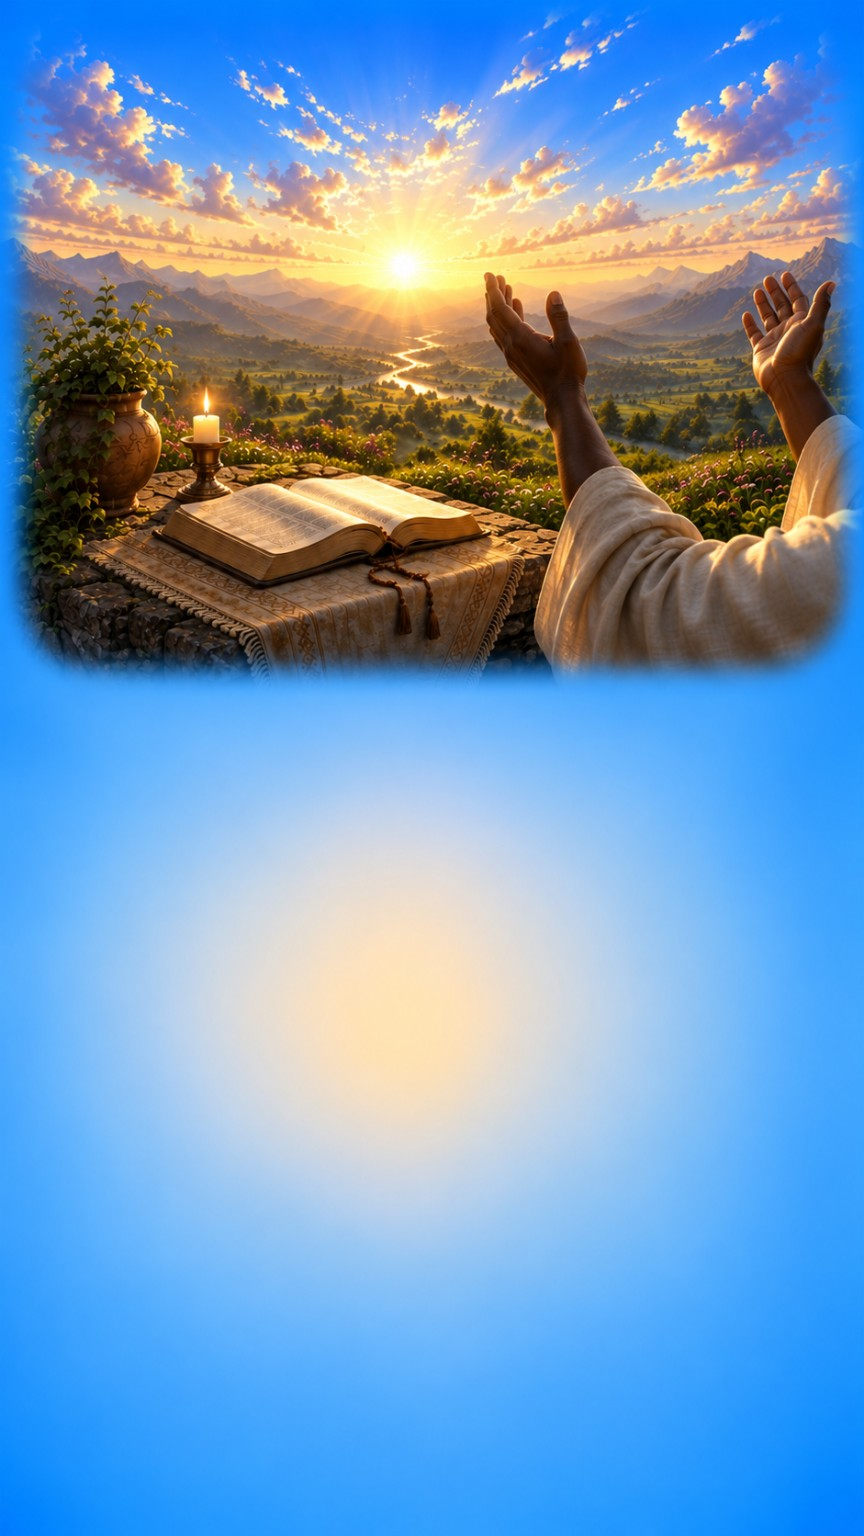
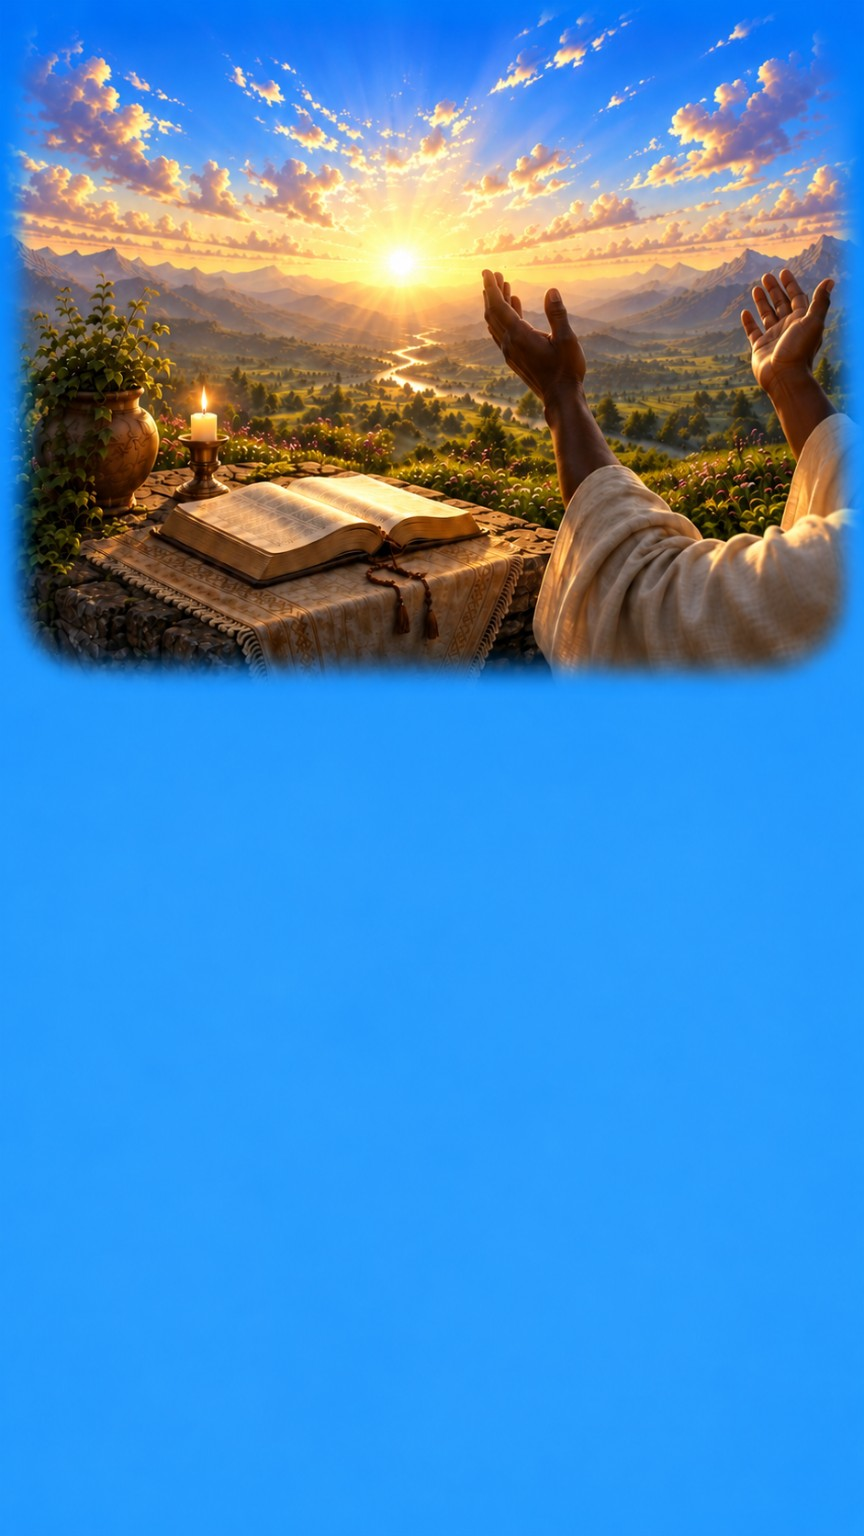
Add files via upload

diff --git a/app.js b/app.js
@@ -1570,8 +1570,8 @@ function openMoreMenu(ev){
   }
 }
 
-const APP_VERSION_LABEL = "v3.1.320";
-const APP_VERSION_ZIP = "Oraciones_V3.1.320_TARJETAS_MILAGROS_ACTUALIZADAS.zip";
+const APP_VERSION_LABEL = "v3.1.321";
+const APP_VERSION_ZIP = "Oraciones_V3.1.321_DISENO_2_ORACION_ACTUALIZADO.zip";
 const APP_BASE_ZIP = "oraciones_v2_v89_2_tarjeta_ajuste_cabecera.zip";
 function closeAppCredits(){
   const el=document.getElementById("appCreditsOverlay");
@@ -3242,7 +3242,7 @@ async function exportAllZip(){
 
 
 /* ===== V3.1.258 · Descargar copia autosuficiente de la aplicación ===== */
-const APP_VERSION_V31249 = "3.1.320";
+const APP_VERSION_V31249 = "3.1.321";
 const FUTURE_HOME_ICONS_V31249 = Object.freeze({
   dailyVerse:"icon-versiculo-dia-v3250.png",
   dictionary:"icon-diccionario-v3250.png"
@@ -3506,7 +3506,7 @@ async function buildCompleteBackupPayloadV31245(){
     type: COMPLETE_BACKUP_TYPE_V31245,
     version: 31306,
     exportedAt: new Date().toISOString(),
-    appVersion: "3.1.320",
+    appVersion: "3.1.321",
     storageEngine: "indexeddb-v1",
     description: "Copia integral y autosuficiente: datos sin duplicar, ajustes y entradas completas del diccionario bíblico.",
     state: removeObsoleteCharactersDataV31272(JSON.parse(JSON.stringify(state||{}))),
@@ -3752,7 +3752,7 @@ function showUpdateNoticeV31297(worker){
   });
   window.addEventListener('load',async()=>{
     try{
-      const reg=await navigator.serviceWorker.register('sw.js?v=3.1.320',{updateViaCache:'none'});
+      const reg=await navigator.serviceWorker.register('sw.js?v=3.1.321',{updateViaCache:'none'});
       const detectWaiting=()=>{if(reg.waiting&&navigator.serviceWorker.controller)showUpdateNoticeV31297(reg.waiting);};
       detectWaiting();
       reg.addEventListener('updatefound',()=>{
@@ -3929,7 +3929,7 @@ function renderCardCategoriesV31282(){
   grid.classList.add('card-category-grid-v31282');
   grid.innerHTML=CARD_CATEGORY_CATALOG_V31282.map(category=>{
     const first=category.designs[0];
-    return `<button class="card-category-option-v31282" type="button" onclick="openCardCategoryV31282('${category.id}')"><strong class="card-category-title-v31285">${cardCategoryEscapeV31282(category.label)}</strong><img src="${first.src}?v=3.1.320" alt="" aria-hidden="true"><span class="card-category-footer-v31285"><small>${category.designs.length} diseños</small><b aria-hidden="true">›</b></span></button>`;
+    return `<button class="card-category-option-v31282" type="button" onclick="openCardCategoryV31282('${category.id}')"><strong class="card-category-title-v31285">${cardCategoryEscapeV31282(category.label)}</strong><img src="${first.src}?v=3.1.321" alt="" aria-hidden="true"><span class="card-category-footer-v31285"><small>${category.designs.length} diseños</small><b aria-hidden="true">›</b></span></button>`;
   }).join('');
 }
 function openCardCategoryV31282(categoryId){
@@ -3946,7 +3946,7 @@ function openCardCategoryV31282(categoryId){
   if(!grid)return;
   grid.classList.remove('card-category-grid-v31282');
   grid.classList.add('card-design-grid-v31282');
-  grid.innerHTML=category.designs.map((design,index)=>`<button class="card-design-option-v31282" type="button" onclick="chooseCardStyleV2217('${design.style}')"><img src="${design.src}?v=3.1.320" alt="Diseño ${index+1} de ${cardCategoryEscapeV31282(category.label)}"><span><strong>Diseño ${index+1}</strong><small>${cardCategoryEscapeV31282(category.label)}</small></span></button>`).join('');
+  grid.innerHTML=category.designs.map((design,index)=>`<button class="card-design-option-v31282" type="button" onclick="chooseCardStyleV2217('${design.style}')"><img src="${design.src}?v=3.1.321" alt="Diseño ${index+1} de ${cardCategoryEscapeV31282(category.label)}"><span><strong>Diseño ${index+1}</strong><small>${cardCategoryEscapeV31282(category.label)}</small></span></button>`).join('');
 }
 function backToCardCategoriesV31282(){renderCardCategoriesV31282();}
 

diff --git a/sw.js b/sw.js
@@ -1,13 +1,13 @@
-const CACHE_NAME="oraciones-v3-1-320-tarjetas-milagros-actualizadas";
+const CACHE_NAME="oraciones-v3-1-321-diseno-2-oracion-actualizado";
 const CORE=["./","./index.html","./manifest.json?v=v3-1-263-sin-calendario","./jszip.min.js?v=v3-1-63-share-history-persist","./jszip.min.js","./styles.css?v=3.1.300","./themes.css?v=v3-1-63-share-history-persist","./welcome.js?v=v3-1-63-share-history-persist","./config.js?v=v3-1-63-share-history-persist","./utils.js?v=v3-1-63-share-history-persist","./recent.js?v=v3-1-63-share-history-persist","./versiculos.js?v=v3-1-64-share-history-persistence-fix","./theme-mode.js?v=v3-1-63-share-history-persist","./app.js?v=3.1.300","./patches.js?v=v3-1-63-share-history-persist","./routines.js?v=v2-215-busqueda-tarjeta-fix-directo","./routines.js","./moments.js?v=v3-1-123-catalogacion-mejorada","./moments.js","./counters-v3183.js?v=v3-1-263-sin-calendario","./counters-v3183.js","./styles.css","./themes.css","./welcome.js","./config.js","./utils.js","./recent.js","./versiculos.js","./theme-mode.js","./app.js","./patches.js","./cross-ethiopian-mask.png","./icon-notas-detallado-v2210.png","./icon-versiculo-dia-v3250.png","./icon-dia-noche-v3255.png","./icon-192.png","./icon-512.png","./bg-morning.webp","./bg-day.webp","./bg-sunset.webp","./bg-night.webp","./card-sabiduria-v2240.jpg?v=v3-1-258-lora-solo-textos-offline","./card-sabiduria-v2240.jpg","./routine-morning-bible-v2216.webp","./routine-night-bible-v2216.webp","./shared-card-new-jerusalem-v2217.png","./card-salvacion-v2219.jpg?v=v3-1-258-lora-solo-textos-offline","./card-oracion-v2219.jpg?v=v3-1-258-lora-solo-textos-offline","./card-espiritu-santo-v2219.jpg?v=v3-1-258-lora-solo-textos-offline","./card-misericordia-v2219.jpg?v=v3-1-258-lora-solo-textos-offline","./card-alabanza-v2219.jpg?v=v3-1-258-lora-solo-textos-offline","./card-fortaleza-v2219.jpg?v=v3-1-258-lora-solo-textos-offline","./card-amor-v2219.jpg?v=v3-1-258-lora-solo-textos-offline","./card-esperanza-v2219.jpg?v=v3-1-258-lora-solo-textos-offline","./card-juicio-v2219.jpg?v=v3-1-258-lora-solo-textos-offline","./card-fe-v2219.jpg?v=v3-1-258-lora-solo-textos-offline","./card-segunda-venida-v2219.jpg?v=v3-1-258-lora-solo-textos-offline","./card-reino-dios-v2230.jpg?v=v3-1-258-lora-solo-textos-offline","./card-santidad-v2230.jpg?v=v3-1-258-lora-solo-textos-offline","./card-cristo-es-dios-v2230.jpg?v=v3-1-258-lora-solo-textos-offline","./card-fe-nueva-v3261.png","./card-dios-v3261.png","./card-sabiduria-2-v31282.png","./card-vida-eterna-2-v31282.png","./card-alabanza-2-v31282.png","./card-amor-2-v31282.png","./card-juicio-2-v31282.png","./card-esperanza-2-v31282.png","./card-oracion-2-v31282.png","./card-descanso-2-v31282.png","./card-fortaleza-2-v31282.png","./card-espiritu-santo-2-v31282.png","./card-misericordia-2-v31282.png","./card-salvacion-2-v31282.png","./card-segunda-venida-2-v31282.png","./card-reino-dios-2-v31282.png","./card-santidad-2-v31282.png","./card-dios-2-v31282.png","./card-cristo-es-dios-2-v31282.png","./card-fe-2-v31282.png","./Lora-Regular.woff2","./Lora-Bold.woff2","./Lora-Italic.woff2","./Lora-BoldItalic.woff2", "./card-amor-3-v2287.png", "./card-salvacion-3-v2287.png", "./card-vida-eterna-3-v2287.png"];
 CORE.push(
-  "./styles.css?v=3.1.320",
-  "./app.js?v=3.1.320",
-  "./storage-idb-safe-v31314.js?v=3.1.320",
+  "./styles.css?v=3.1.321",
+  "./app.js?v=3.1.321",
+  "./storage-idb-safe-v31314.js?v=3.1.321",
   "./app-loader.js?v=3.1.313",
   "./app-loader-recovery-v31313.js?v=3.1.313",
-  "./app-loader-safe-v31314.js?v=3.1.320",
-  "./counters-v3183-v31313.js?v=3.1.320",
+  "./app-loader-safe-v31314.js?v=3.1.321",
+  "./counters-v3183-v31313.js?v=3.1.321",
   "./storage-idb.js",
   "./storage-idb-safe-v31314.js",
   "./app-loader.js",

diff --git a/index.html b/index.html
@@ -20,7 +20,7 @@
 
 <link rel="preload" as="image" href="routine-morning-bible-v2216.webp">
 <link rel="preload" as="image" href="routine-night-bible-v2216.webp">
-<link rel="stylesheet" href="styles.css?v=3.1.320">
+<link rel="stylesheet" href="styles.css?v=3.1.321">
 <link rel="stylesheet" href="themes.css?v=v3-1-63-share-history-persist">
 
 <style>
@@ -443,7 +443,7 @@ button .inline-faith-cross-v3193{width:1em;height:1.12em}
 <script src="theme-mode.js?v=v3-1-54-new-verse-category-choice"></script>
 <script src="jszip.min.js?v=v3-1-63-share-history-persist"></script>
 <script src="https://accounts.google.com/gsi/client" async defer></script>
-<script src="storage-idb-safe-v31314.js?v=3.1.320"></script>
-<script type="module" src="app-loader-safe-v31314.js?v=3.1.320"></script>
+<script src="storage-idb-safe-v31314.js?v=3.1.321"></script>
+<script type="module" src="app-loader-safe-v31314.js?v=3.1.321"></script>
 </body>
 </html>

diff --git a/app-loader-safe-v31314.js b/app-loader-safe-v31314.js
@@ -1,12 +1,12 @@
 const channel = window.ORACIONES_APP_CHANNEL_V1 || "v3";
-const version = window.ORACIONES_APP_VERSION_V1 || "3.1.320";
+const version = window.ORACIONES_APP_VERSION_V1 || "3.1.321";
 
 const startupScriptsV31314 = [
   "app.js?v="+version,
   "patches.js?v=v3-1-63-share-history-persist",
   "routines.js?v=v2-215-busqueda-tarjeta-fix-directo",
   "moments.js?v=v3-1-123-catalogacion-mejorada",
-  "counters-v3183-v31313.js?v=3.1.320"
+  "counters-v3183-v31313.js?v=3.1.321"
 ];
 
 function waitV31314(milliseconds){

diff --git a/config.js b/config.js
@@ -3,7 +3,7 @@
 let categoryListActive=false;
 
 window.ORACIONES_APP_CHANNEL_V1="v3";
-window.ORACIONES_APP_VERSION_V1="3.1.320";
+window.ORACIONES_APP_VERSION_V1="3.1.321";
 
 let sentListActive=false;
 
